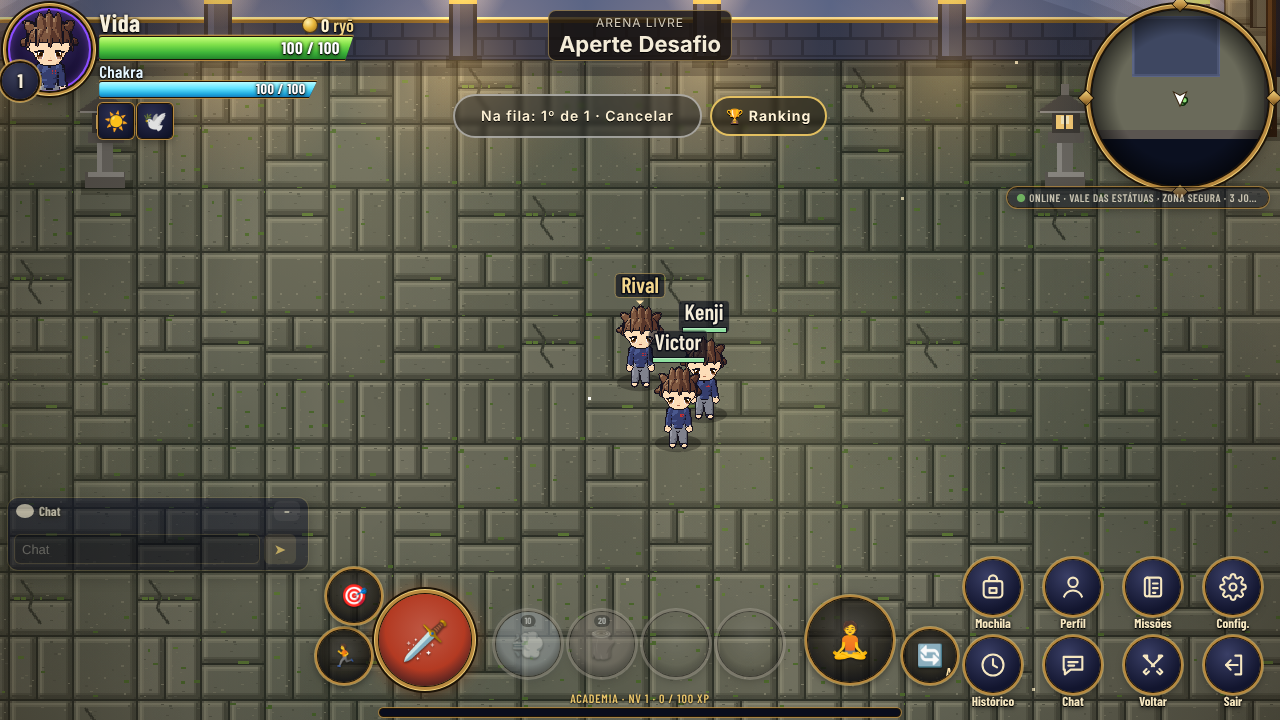
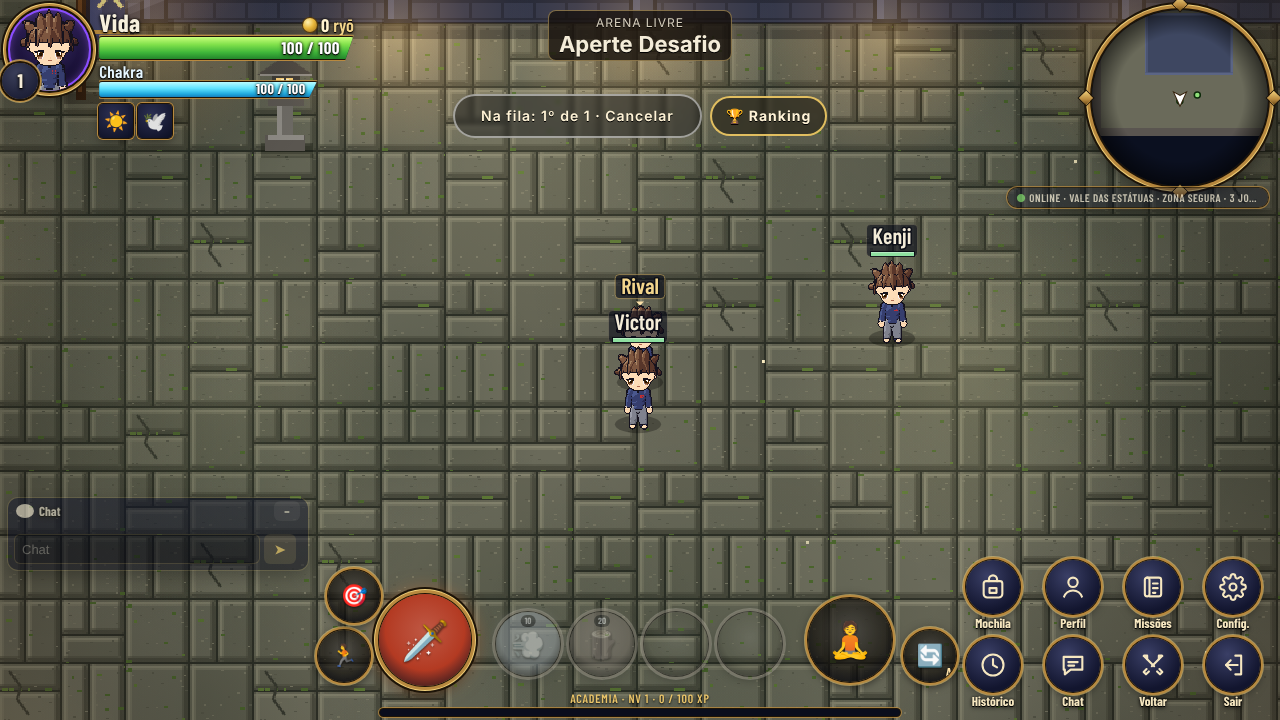
Revisão EGM do rankeado: rodada 2 (contexto e imagens)
Claude-Session: https://claude.ai/code/session_013vLqrVyPBNyjBLYS91kN9N

diff --git a/revisao_egm/rankeado/rodada2/CONTEXTO.md b/revisao_egm/rankeado/rodada2/CONTEXTO.md
@@ -1,0 +1,17 @@
+# Rodada 2 da revisão do rankeado
+
+Leia primeiro `../CONTEXTO.md` (o que é o modo) e o relatório anterior da sua lente em `../rev_*.md`.
+
+O que mudou desde a rodada 1 (pedidos dos revisores e do Victor):
+- Anti-abuso: quem sai fica fora da fila (1 min, dobra até 16), sair na preparação cancela sem pontos, partida sem
+  dano não conta, a fila evita repetir a mesma dupla, 30/10 ryō por partida que conta.
+- Botões Desafio e Ranking no alto, embaixo do placar; somem durante a sua luta. Sair pede confirmação.
+- Placar com a vida dos dois; "Arena livre / Aperte Desafio" quando não há luta. Missões escondidas no Vale.
+- Lutadores começam espelhados nas pontas. Tela de vitória com pontos, ryō, faixa e "Jogar de novo"; Ranking com
+  barra até a próxima faixa.
+- Arte: chão de lajes cinza-oliva com musgo (9 variações), paredão no fundo, lanternas, estátuas maiores com
+  estandarte da vila e figura ninja nova, arquibancadas DOS DOIS LADOS da arena (pedido do Victor).
+- Sentar: em cima da arquibancada aparece "Sentar"; sentado, "Assistir a luta" (câmera na arena) e "Parar de
+  assistir"; andar levanta. Só quem está sentado pode assistir (pedido do Victor).
+
+Imagens desta pasta: 1 a 10 (10-estatua é de perto). O boneco chibi não é arte final: só escala.
